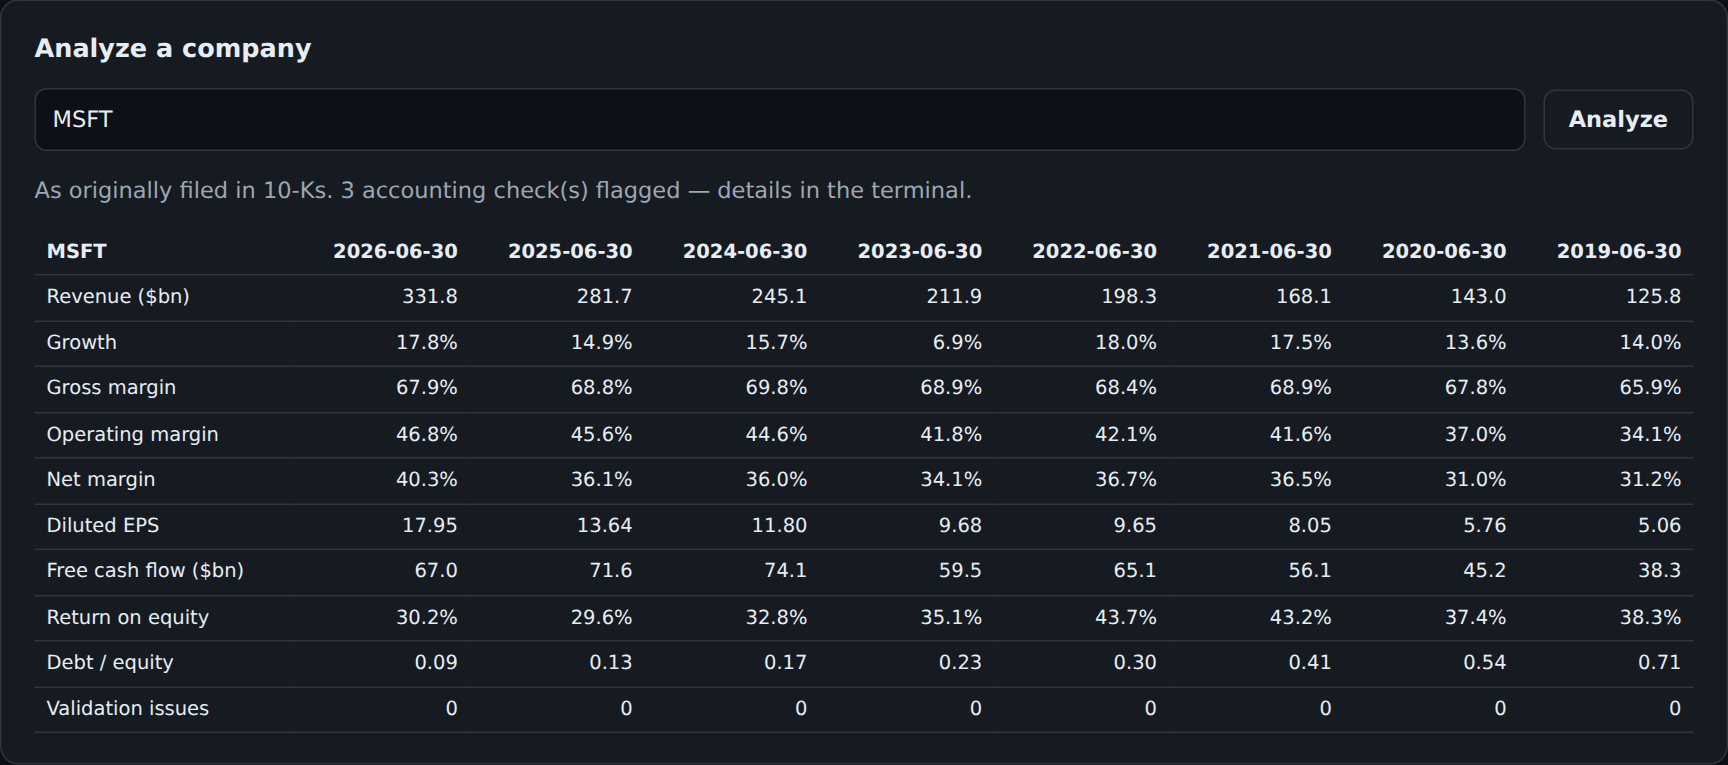
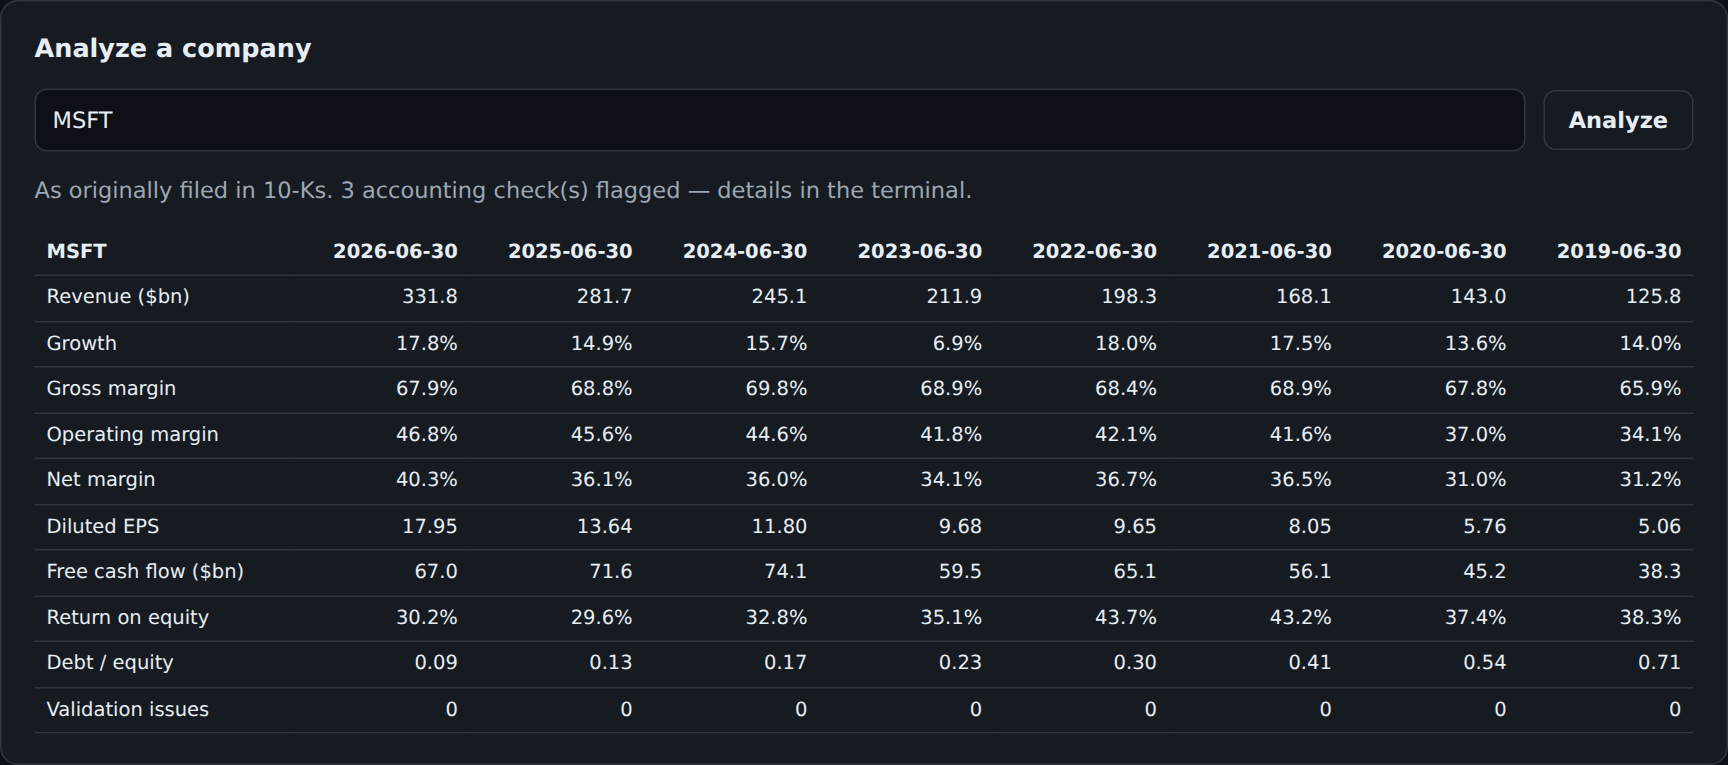
Research radar: rescans of a re-published feed keep the first sighting
BIS re-published its working-paper feed with new bytes while the items
were unchanged; the rescan then failed with 'discovery identity conflict'
because the feed snapshot id was compared as identity. The snapshot is
provenance of the first sighting: the radar store now ignores it when
checking an item is unchanged, and triage and the review queue continue
with the stored item. Every fetched feed version stays archived.

Also refresh the README app screenshots from a clean, fully green run.

Claude-Session: https://claude.ai/code/session_01D67AaNm7BcD1xbZLRsUXMc

diff --git a/tests/test_feed_radar.py b/tests/test_feed_radar.py
@@ -165,6 +165,46 @@ class AdapterTests(unittest.TestCase):
         self.assertEqual(rows, [("nber-wp", "nber:w35758"), ("nber-wp", "nber:w35759")])
 
 
+    def test_rescan_of_a_republished_feed_keeps_the_first_sighting(self):
+        # BIS re-publishes its feed with new bytes while the item is unchanged.
+        bodies = [BIS, BIS.replace(b"<title>BIS</title>", b"<title>BIS working papers</title>")]
+
+        class Fake:
+            def fetch(self, *, source_id, max_items, first_seen, artifact_store):
+                from quantos.adapters.feed_radar import FeedRadarFetch
+
+                now = datetime.now(UTC)
+                body = bodies.pop(0)
+                artifact = artifact_store.put(source_uri=FEEDS_BY_ID[source_id].url, content=body,
+                                              fetched_at=now, media_type="application/xml")
+                items = parse_feed(body, source=FEEDS_BY_ID[source_id], fetched_at=now,
+                                   feed_artifact_id=artifact.artifact_id, first_seen=first_seen)
+                return FeedRadarFetch(FEEDS_BY_ID[source_id], FEEDS_BY_ID[source_id].url, now, items, artifact)
+
+        with tempfile.TemporaryDirectory() as tmp:
+            root = Path(tmp)
+            kwargs = dict(
+                source_ids=("bis-wp",), max_items=10, radar_db=str(root / "radar.duckdb"),
+                artifact_root=str(root / "a"), artifact_db=str(root / "a.duckdb"),
+                triage_db=str(root / "t.duckdb"), review_db=str(root / "r.duckdb"),
+                queue_threshold=0.0, adapter=Fake(),
+            )
+            scan_feeds(**kwargs)
+            scan_feeds(**kwargs)
+            radar = duckdb.connect(str(root / "radar.duckdb"))
+            items = radar.execute("SELECT feed_artifact_id FROM radar_items").fetchall()
+            radar.close()
+            queue = duckdb.connect(str(root / "r.duckdb"))
+            queued = queue.execute("SELECT feed_artifact_id FROM research_review_queue").fetchall()
+            queue.close()
+            archive = duckdb.connect(str(root / "a.duckdb"))
+            archived = archive.execute("SELECT count(*) FROM source_artifacts").fetchone()[0]
+            archive.close()
+        self.assertEqual(len(items), 1)
+        self.assertEqual(queued, items, "the review queue keeps the first sighting too")
+        self.assertEqual(archived, 2, "every fetched feed version stays archived")
+
+
 class SSRNTests(unittest.TestCase):
     def test_ssrn_url_filters_prefix_type_and_posted_date_and_requires_query(self):
         url = CrossrefRadarAdapter.build_ssrn_url(

diff --git a/src/quantos/radar_cli.py b/src/quantos/radar_cli.py
@@ -252,12 +252,15 @@ def _scan(
         with span("radar", f"{provider}-fetch"):
             fetched = fetch(artifacts)
         ingest = radar.ingest(fetched.items)
+        # Continue with the stored items so triage and review see each item's
+        # first sighting (and its first feed snapshot) on every rescan.
+        items = tuple(radar.get(item.discovery_id) or item for item in fetched.items)
 
         engine = RadarTriageEngine()
         scored: list[TriageResult] = []
         context = list(prior)
         triaged_at = datetime.now(timezone.utc)
-        for item in fetched.items:
+        for item in items:
             result = engine.score(
                 item,
                 triaged_at=triaged_at,
@@ -289,7 +292,7 @@ def _scan(
             f"skipped={ingest.skipped_identical}",
             f"feed_artifact={artifact_id}",
         )
-        by_id = {item.discovery_id: item for item in fetched.items}
+        by_id = {item.discovery_id: item for item in items}
         queued = 0
         queued_at = datetime.now(timezone.utc)
         for result in ranked:

diff --git a/src/quantos/research_radar.py b/src/quantos/research_radar.py
@@ -102,8 +102,12 @@ class ResearchRadarStore:
                 [item.discovery_id],
             ).fetchone()
             if existing is not None:
+                # The feed snapshot is provenance of the first sighting, not
+                # identity: a feed re-published with new bytes (another item,
+                # a new build date) still carries the same item. Every fetch
+                # stays archived; the stored item keeps its first snapshot.
                 old = self._canonical_row(existing)
-                if old != canonical:
+                if old[:10] + old[11:] != canonical[:10] + canonical[11:]:
                     raise ValueError(
                         f"discovery identity conflict: {item.discovery_id}"
                     )

diff --git a/CHANGELOG.md b/CHANGELOG.md
@@ -9,6 +9,7 @@
 - **Fama-French factors.** Daily five factors and momentum from the Kenneth R. French Data Library, keyless, with revisions kept.
 - **Terminal.** Workspaces open on useful views (the Treasury curve chart, formatted company metrics). Exact-decimal values chart as numbers, and years and CIKs display as labels.
 - **Reliability.** The SEC ticker directory is cached for a day. The health check sends light, spaced probes and explains rate limiting.
+- **Research radar fix.** Rescanning a feed that was re-published with new bytes but unchanged items (as BIS does) no longer fails with an identity conflict. Each item keeps its first sighting, and every feed version stays archived.
 - **Licensing.** The build-only tools that make the desktop downloads (PyInstaller and its helpers) are reviewed in their own license table. A test keeps them out of the runtime.
 
 ## 0.19.0 — Open source and usable by anyone
